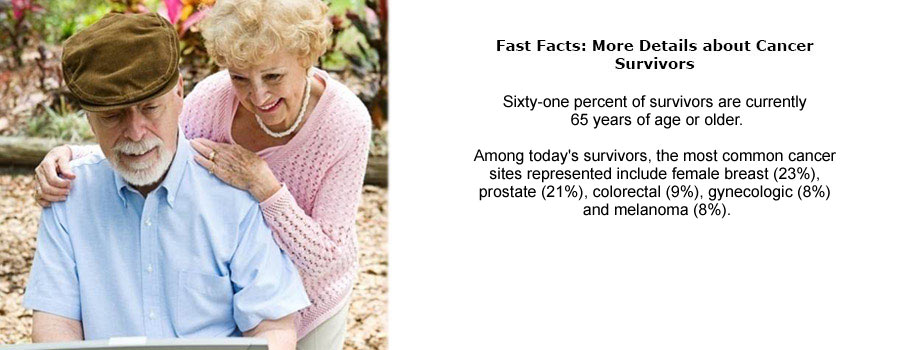
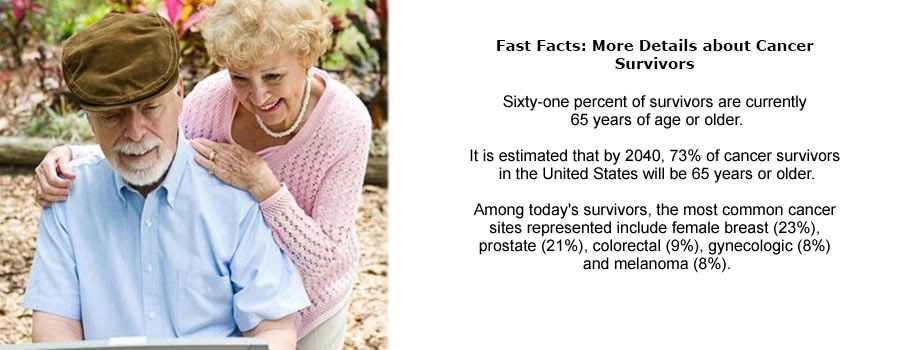
CD: OCS updates Former-commit-id: f50b1b1abdfe00200311d5c5e9f3e862e9c31e66

Changed region(s): [[0.487, 0.4286, 0.913, 0.7714]]

diff --git a/ocs/index.html b/ocs/index.html
@@ -178,7 +178,7 @@ Opportunities at NCI</a></li>
           </div>
         </div>
         <div class="item">
-          <img class="splash" src="Images/carousel/banner-fastfacts2.jpg" alt="Over the next decade, the number of people who have lived 5 years or more after their cancer diagnosis is projected to increase approximately 35%, to 14 million. In 2016, 68% of survivors have survived 5 years or more after diagnosis; 47% have survived 10 years or more; and 20% have survived 20 years or more.">
+          <img class="splash" src="Images/carousel/banner-fastfacts2.jpg" alt="As of January 2016, it is estimated that there are 15.5 million cancer survivors in the United States. This represents 4.8% of the population. The number of cancer survivors is projected to grow to 26.1 million by 2040, an increase of almost 11 million from 2016.">
           <div class="container">
             <div class="carousel-caption slide2">
                   <a class="btn btn-info slide2a" href="/ocs/statistics/statistics.html">Learn More</a>
@@ -186,7 +186,8 @@ Opportunities at NCI</a></li>
           </div>
         </div>
         <div class="item">
-          <img class="splash" src="Images/carousel/banner-fastfacts1.jpg" alt="As of January 2016, it is estimated that there are 15.5 million cancer survivors in the United States. This represents 4.8% of the population. The number of cancer survivors is projected to increase by 31%, to almost 20 million, by 2026, which represents an increase of more than 4 million survivors in 10 years.">
+          <img class="splash" src="Images/carousel/banner-fastfacts1.jpg" alt="Over the next decade, the number of people who have lived 5 years or more after their cancer diagnosis is projected to increase approximately 35%, to 14 million. In 2016, 68% of survivors have survived 
+5 years or more after diagnosis; 44% have survived 10 years or more; and 20% have survived 20 years or more.">
           <div class="container">
             <div class="carousel-caption slide3">
                   <a class="btn btn-info slide3a" href="/ocs/statistics/statistics.html">Learn More</a>
@@ -194,7 +195,7 @@ Opportunities at NCI</a></li>
           </div>
         </div>
                 <div class="item">
-          <img class="splash" src="Images/carousel/banner-fastfacts3.jpg" alt="Sixty-one percent of survivors are currently 65 years of age or older. Among today's survivors, the most common cancer sites represented include female breast (23%), prostate (21%), colorectal (9%), gynecologic (8%) and melanoma (8%).">
+          <img class="splash" src="Images/carousel/banner-fastfacts3.jpg" alt="Sixty-one percent of survivors are currently 65 years of age or older. It is estimated that by 2040, 73% of cancer survivors in the United States will be 65 years or older. Among today's survivors, the most common cancer sites represented include female breast (23%), prostate (21%), colorectal (9%), gynecologic (8%) and melanoma (8%).">
           <div class="container">
             <div class="carousel-caption slide4">
                   <a class="btn btn-info slide4a" href="/ocs/statistics/statistics.html">Learn More</a>

diff --git a/ocs/statistics/statistics.html b/ocs/statistics/statistics.html
@@ -176,7 +176,7 @@ Opportunities at NCI</a></li>
     </div>-->
 		</li>
       <li>The number of cancer survivors is projected to increase by 31%, to almost 20 million, by 2026, which represents an increase of more than 4 million survivors in 10 years.<sup>1, 2</sup> </li>
-      <li>The number of cancer  survivors is projected to grow to 26.1 million by 2040, and 73% of those survivors will be 65 years or older.<sup>3</sup></li>
+      <li>The number of cancer survivors is projected to grow to 26.1 million by 2040, an increase of almost 11 million from 2016.<sup>3</sup></li>
       <!--<a href="#graphA" data-toggle="lightbox">View graph A</a>
                      			<div id="modal" class="lightbox hide fade" tabindex="-1" role="dialog" aria-hidden="true">
                       				<div class="modal-body">
@@ -208,7 +208,8 @@ Opportunities at NCI</a></li>
     </ul>
 <p><strong>More Details about Cancer Survivors    </strong></p>
     <ul>
-      <li>Sixty-one percent of survivors are currently 65 years of age or older.<sup>1, 2</sup>  <!--<a href="#graphD" data-toggle="lightbox">View graph D</a>
+      <li>Sixty-one percent of survivors are currently 65 years of age or older.</li>
+      <li>It is estimated that by 2040, 73% of cancer survivors in the United States will be 65 years or older.<sup>3</sup>  <!--<a href="#graphD" data-toggle="lightbox">View graph D</a>
       
         <div id="graphD" class="lightbox hide fade" tabindex="-1" role="dialog" aria-hidden="true">
      <div class='lightbox-header'><button type="button" class="close" data-dismiss="lightbox" aria-hidden="true">&times;</button>
@@ -216,9 +217,7 @@ Opportunities at NCI</a></li>
     <div class='lightbox-content'>
     <img src="../Images/graphs/graph-2014-age.png" alt="Estimated number of persons alive in the United States who were diagnosed with cancer, by current age" />
     </div>
-    </div>-->
-      </li>
-      
+    </div>-->  </li>    
       <li>Among today's survivors, the most common cancer sites represented include female breast (23%), prostate (21%), colorectal (9%),  gynecologic (8%) and melanoma (8%).<sup>1, 2</sup></li>
     </ul>
     <p>For additional cancer-related statistics, please visit <a href="http://seer.cancer.gov/">NCI's Surveillance, Epidemiology, and End Results (SEER) Program</a>. </p>
